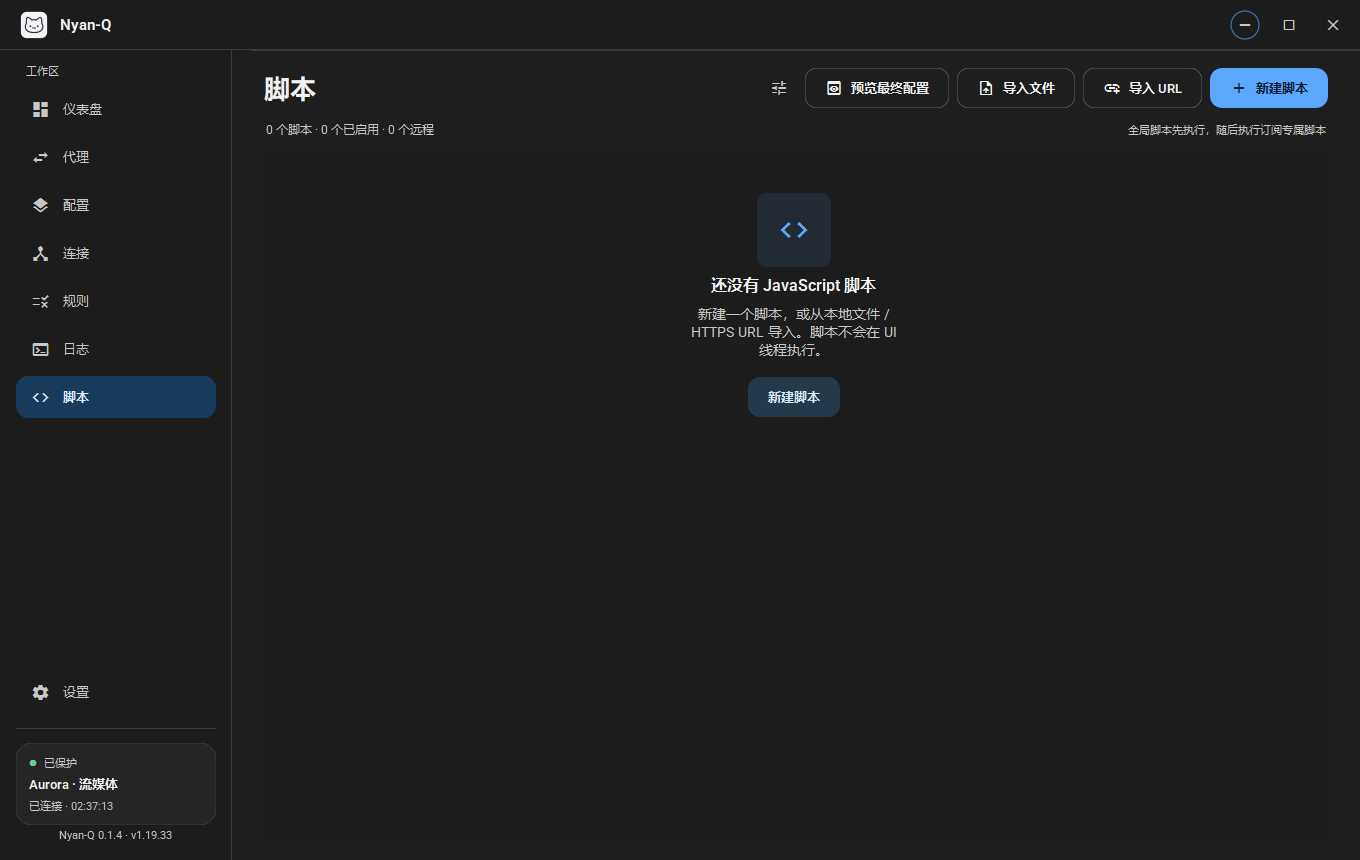
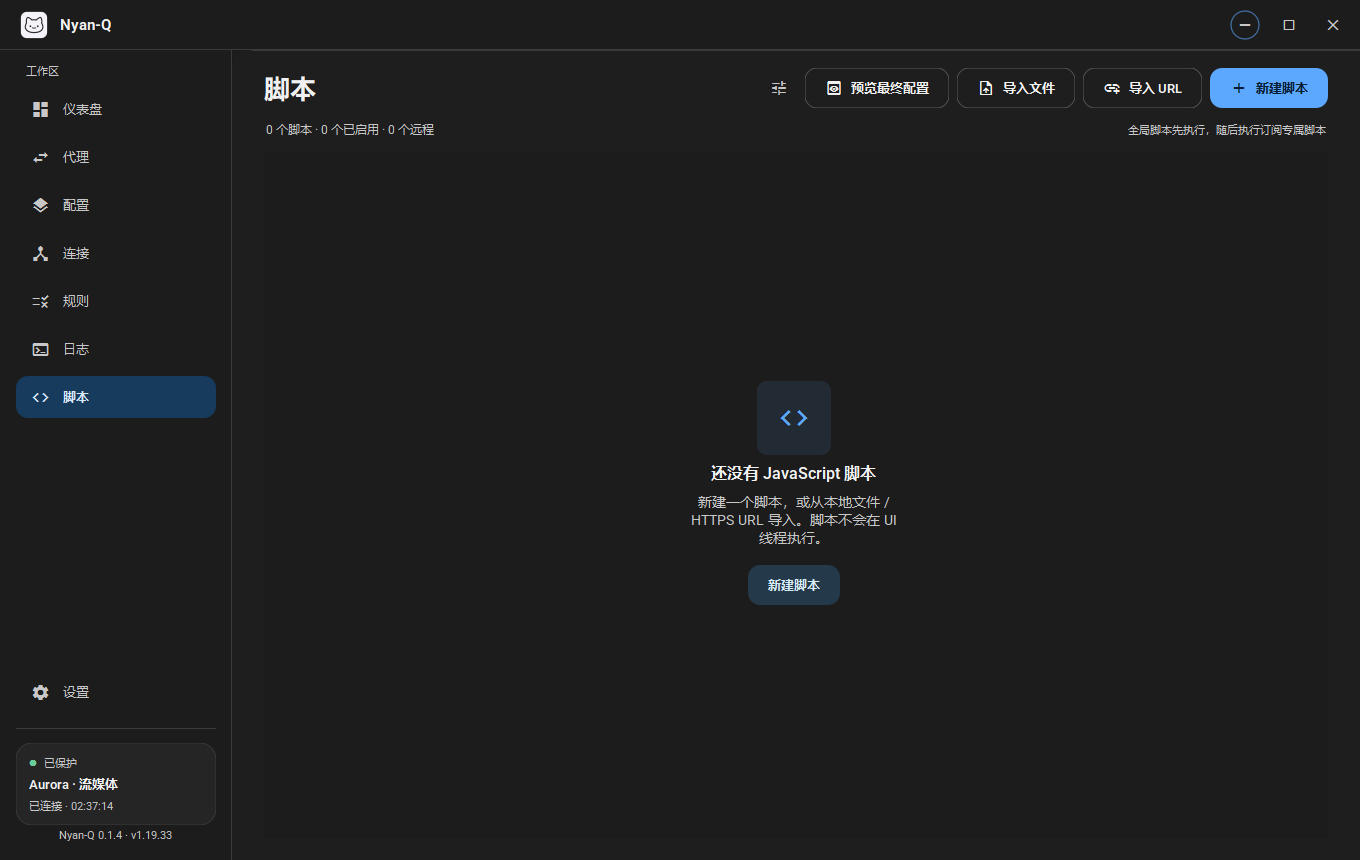
ui: center the empty scripts state vertically

Changed region(s): [[0.4941, 0.5442, 0.6485, 0.7256], [0.4941, 0.3023, 0.6794, 0.4837]]

diff --git a/src/ui/pages/ScriptsPage.cpp b/src/ui/pages/ScriptsPage.cpp
@@ -255,6 +255,7 @@ void ScriptsPage::rebuild()
     }
 
     if (scripts.isEmpty()) {
+        m_listLayout->addStretch(1);
         auto* empty = new M3EmptyState(
             QStringLiteral("code"), QStringLiteral("还没有 JavaScript 脚本"),
             QStringLiteral("新建一个脚本，或从本地文件 / HTTPS URL 导入。"
@@ -262,7 +263,7 @@ void ScriptsPage::rebuild()
             m_content);
         auto* action = empty->addAction(QStringLiteral("新建脚本"));
         connect(action, &QAbstractButton::clicked, this, &ScriptsPage::createScript);
-        m_listLayout->addWidget(empty);
+        m_listLayout->addWidget(empty, 0, Qt::AlignHCenter);
     }
 
     m_listLayout->addStretch(1);
